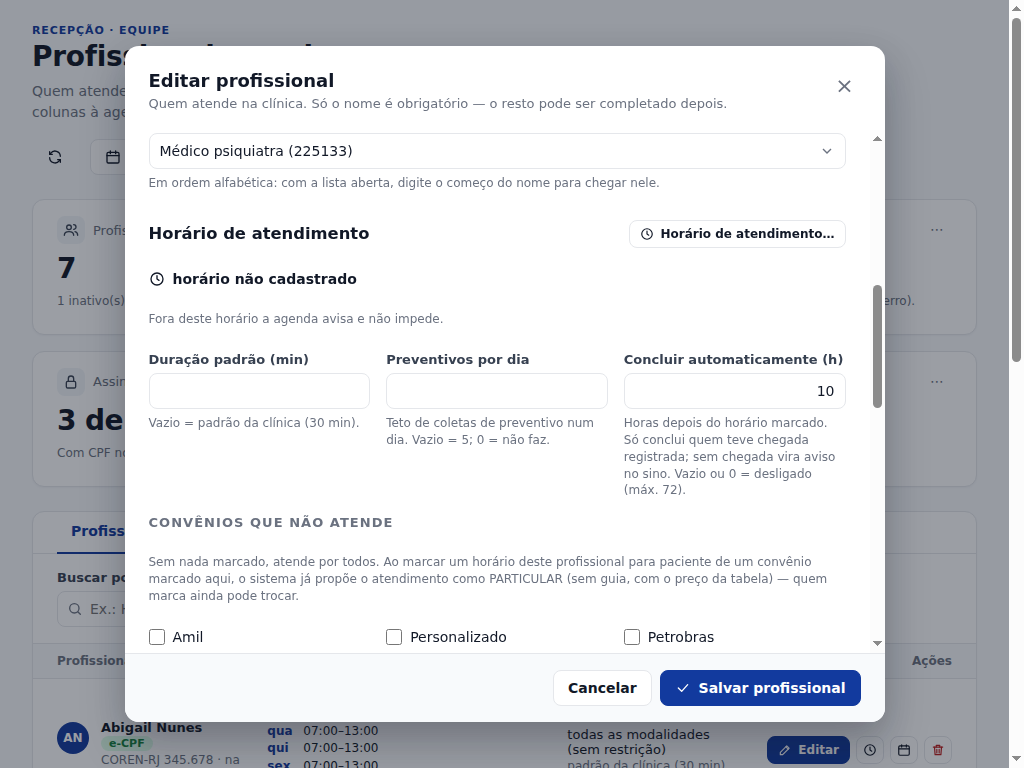
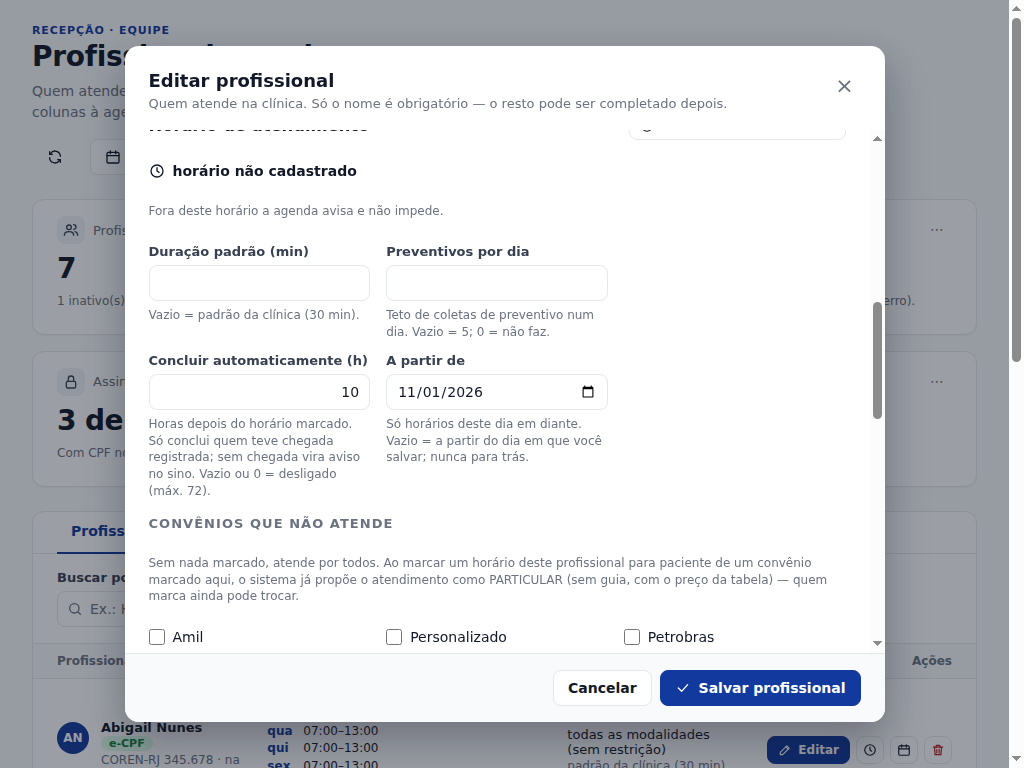
Conclusão automática por profissional: data "a partir de" e teto por volta
Pedido do dono: a regra só alcança horários a partir da data do cadastro
(01/11/2026 para a médica), retroativa a partir dela e nunca antes; sem
data, vale do dia da gravação. O aviso do sino segue a data. O relógio
conclui no máximo 50 horários por volta (1/min). A migration ainda não
publicada foi refeita com a terceira coluna.

diff --git a/tests/Clinica.Tests/ConclusaoPorProfissionalTests.cs b/tests/Clinica.Tests/ConclusaoPorProfissionalTests.cs
@@ -34,23 +34,35 @@ public sealed class ConclusaoPorProfissionalTests : IDisposable
 
     private ConclusaoAutomaticaService Servico => new(_db, _repo, new(_repo, new(_repo)), new(_repo));
 
+    private static readonly DateTime APartirDe = new(2026, 11, 1);
+
     private async Task<(Profissional Medica, Agendamento Horario)> CenarioAsync(
-        int? horas = 10, bool chegou = true, StatusAgendamento status = StatusAgendamento.Agendado)
+        int? horas = 10, bool chegou = true, StatusAgendamento status = StatusAgendamento.Agendado,
+        DateTime? horario = null, bool semData = false)
     {
-        var medica = new Profissional { Nome = "Dra. Fictícia da Silva", NomeCurto = "Dra. Fictícia", Ativo = true, ConcluirAutomaticamenteHoras = horas };
+        var medica = new Profissional { Nome = "Dra. Fictícia da Silva", NomeCurto = "Dra. Fictícia", Ativo = true,
+            ConcluirAutomaticamenteHoras = horas, ConcluirAutomaticamenteDesde = semData ? null : APartirDe };
         _db.Profissionais.Add(medica);
         await _db.SaveChangesAsync();
+        var quando = horario ?? Horario;
+        var h = await NovoHorarioAsync(medica.Id, quando, chegou, status);
+        _db.ChangeTracker.Clear();
+        return (medica, h);
+    }
+
+    private async Task<Agendamento> NovoHorarioAsync(int profissionalId, DateTime quando, bool chegou = true,
+        StatusAgendamento status = StatusAgendamento.Agendado)
+    {
         var horario = new Agendamento
         {
             Paciente = new Paciente { Nome = "Paciente Exemplo", Convenio = Convenio.UnimedPadrao },
-            ProfissionalId = medica.Id, DataHora = Horario, Status = status,
+            ProfissionalId = profissionalId, DataHora = quando, Status = status,
             ModalidadePrevista = ModalidadeAtendimento.AcupunturaComEletro,
-            ChegadaEm = chegou ? Horario.AddMinutes(-10) : null
+            ChegadaEm = chegou ? quando.AddMinutes(-10) : null
         };
         _db.Agendamentos.Add(horario);
         await _db.SaveChangesAsync();
-        _db.ChangeTracker.Clear();
-        return (medica, horario);
+        return horario;
     }
 
     private Task<Agendamento> RelerAsync(int id) => _db.Agendamentos.AsNoTracking().SingleAsync(a => a.Id == id);
@@ -141,6 +153,66 @@ public sealed class ConclusaoPorProfissionalTests : IDisposable
     }
 
     [Fact]
+    public async Task Antes_da_data_nao_conclui_nem_avisa_e_depois_dela_conclui_na_primeira_volta()
+    {
+        // A gerente grava 10 h a partir de 01/11 em 18/11: 30/10 fica intocado; 05/11 conclui na primeira volta.
+        var gravadaEm = new DateTime(2026, 11, 18, 10, 0, 0);
+        var (medica, antes) = await CenarioAsync(horario: new DateTime(2026, 10, 30, 9, 0, 0));
+        var semChegadaAntes = await NovoHorarioAsync(medica.Id, new DateTime(2026, 10, 31, 9, 0, 0), chegou: false);
+        var depois = await NovoHorarioAsync(medica.Id, new DateTime(2026, 11, 5, 9, 0, 0));
+        _db.ChangeTracker.Clear();
+
+        Assert.Equal([depois.Id], await Servico.CandidatosPorProfissionalAsync(gravadaEm));
+        Assert.False(await Servico.ConcluirPorProfissionalAsync(antes.Id, gravadaEm));
+        Assert.True(await Servico.ConcluirPorProfissionalAsync(depois.Id, gravadaEm));
+
+        Assert.Equal(StatusAgendamento.Agendado, (await RelerAsync(antes.Id)).Status);
+        Assert.Null((await RelerAsync(antes.Id)).ConcluidoAutomaticamenteEm);
+        Assert.Equal(StatusAgendamento.Realizado, (await RelerAsync(depois.Id)).Status);
+        Assert.Empty(await Servico.SemChegadaAsync(gravadaEm)); // 31/10 sem chegada: antes da data, sem aviso
+        Assert.Equal(StatusAgendamento.Agendado, (await RelerAsync(semChegadaAntes.Id)).Status);
+    }
+
+    [Fact]
+    public async Task Primeiro_de_novembro_as_9h_com_chegada_conclui_as_19h()
+    {
+        var (_, h) = await CenarioAsync(horario: new DateTime(2026, 11, 1, 9, 0, 0));
+        Assert.False(await Servico.ConcluirPorProfissionalAsync(h.Id, new DateTime(2026, 11, 1, 18, 59, 0)));
+        Assert.True(await Servico.ConcluirPorProfissionalAsync(h.Id, new DateTime(2026, 11, 1, 19, 0, 0)));
+    }
+
+    [Fact]
+    public async Task Sem_data_gravada_a_regra_nao_anda_para_tras()
+    {
+        // Horas preenchidas sem data (gravado por fora do serviço): nada, nem aviso.
+        var (_, h) = await CenarioAsync(semData: true);
+        Assert.Empty(await Servico.CandidatosPorProfissionalAsync(DezHorasDepois));
+        Assert.False(await Servico.ConcluirPorProfissionalAsync(h.Id, DezHorasDepois));
+        Assert.Empty(await Servico.SemChegadaAsync(DezHorasDepois));
+    }
+
+    [Fact]
+    public async Task Cadastro_sem_data_grava_o_dia_da_gravacao_e_nao_conclui_o_que_veio_antes()
+    {
+        var medica = new Profissional { Nome = "Dra. Fictícia da Silva", NomeCurto = "Dra. Fictícia", Ativo = true };
+        _db.Profissionais.Add(medica);
+        await _db.SaveChangesAsync();
+        var ontem = DateTime.Today.AddDays(-1).AddHours(9);
+        var h = await NovoHorarioAsync(medica.Id, ontem);
+        _db.ChangeTracker.Clear();
+
+        await new EquipeService(_repo).SalvarProfissionalAsync(
+            new Profissional { Id = medica.Id, Nome = medica.Nome, Ativo = true, ConcluirAutomaticamenteHoras = 10 });
+        var gravado = await _db.Profissionais.AsNoTracking().SingleAsync(p => p.Id == medica.Id);
+        Assert.Equal(DateTime.Today, gravado.ConcluirAutomaticamenteDesde);
+
+        _db.ChangeTracker.Clear();
+        Assert.Empty(await Servico.CandidatosPorProfissionalAsync(DateTime.Now.AddHours(1)));
+        Assert.False(await Servico.ConcluirPorProfissionalAsync(h.Id, DateTime.Now.AddHours(1)));
+        Assert.Equal(StatusAgendamento.Agendado, (await RelerAsync(h.Id)).Status);
+    }
+
+    [Fact]
     public void Sessao_concluida_pelo_sistema_nao_e_pendencia_de_evolucao_da_medica()
     {
         var dia = PoliticaRegistroPendente.DataInicio.AddDays(30).ToDateTime(new TimeOnly(9, 0));
@@ -161,8 +233,16 @@ public sealed class ConclusaoPorProfissionalTests : IDisposable
         await equipe.SalvarProfissionalAsync(new Profissional { Id = medica.Id, Nome = lida.Nome, Ativo = true });
         Assert.Equal(10, (await _db.Profissionais.AsNoTracking().SingleAsync(p => p.Id == medica.Id)).ConcluirAutomaticamenteHoras);
 
+        Assert.Equal(APartirDe, (await _db.Profissionais.AsNoTracking().SingleAsync(p => p.Id == medica.Id)).ConcluirAutomaticamenteDesde);
+
+        // A tela manda horas sem data: a data que já estava fica (não avança a cada salvar).
+        await equipe.SalvarProfissionalAsync(new Profissional { Id = medica.Id, Nome = lida.Nome, Ativo = true, ConcluirAutomaticamenteHoras = 12 });
+        Assert.Equal(APartirDe, (await _db.Profissionais.AsNoTracking().SingleAsync(p => p.Id == medica.Id)).ConcluirAutomaticamenteDesde);
+
         await equipe.SalvarProfissionalAsync(new Profissional { Id = medica.Id, Nome = lida.Nome, Ativo = true, ConcluirAutomaticamenteHoras = 0 });
-        Assert.Null((await _db.Profissionais.AsNoTracking().SingleAsync(p => p.Id == medica.Id)).ConcluirAutomaticamenteHoras);
+        var desligado = await _db.Profissionais.AsNoTracking().SingleAsync(p => p.Id == medica.Id);
+        Assert.Null(desligado.ConcluirAutomaticamenteHoras);
+        Assert.Null(desligado.ConcluirAutomaticamenteDesde);
 
         await Assert.ThrowsAsync<InvalidOperationException>(() => equipe.SalvarProfissionalAsync(
             new Profissional { Id = medica.Id, Nome = lida.Nome, Ativo = true, ConcluirAutomaticamenteHoras = Profissional.ConcluirAutomaticamenteHorasMaximo + 1 }));

diff --git a/src/Clinica.Infrastructure/ConclusaoAutomaticaService.cs b/src/Clinica.Infrastructure/ConclusaoAutomaticaService.cs
@@ -105,7 +105,8 @@ public sealed class ConclusaoAutomaticaService(ClinicaDbContext db, IClinicaRepo
         var linhas = await ConsultaAbertosDosProfissionaisComPrazo(agora, comChegada, depois).ToListAsync(ct);
         return linhas
             .Select(a => (Horario: a, Profissional: a.Profissional!, Horas: ConclusaoPorProfissional.Horas(a.Profissional)))
-            .Where(l => l.Horas is { } h && ConclusaoPorProfissional.Venceu(l.Horario.DataHora, h, agora))
+            .Where(l => l.Horas is { } h && ConclusaoPorProfissional.NoAlcance(l.Profissional, l.Horario.DataHora)
+                && ConclusaoPorProfissional.Venceu(l.Horario.DataHora, h, agora))
             .Select(l => (l.Horario, l.Profissional, l.Horas!.Value))
             .ToList();
     }
@@ -113,13 +114,24 @@ public sealed class ConclusaoAutomaticaService(ClinicaDbContext db, IClinicaRepo
     /// <summary>O recorte do banco (estado, chegada, profissional com a regra, janela de dias) — público para a rede de tradução.</summary>
     public IQueryable<Agendamento> ConsultaAbertosDosProfissionaisComPrazo(DateTime agora, bool comChegada, int depois)
     {
-        var desde = agora.AddDays(-ConclusaoPorProfissional.DiasDoAvisoSemChegada);
         var ultimoPossivel = agora.AddHours(-1);
         var abertos = db.Agendamentos.AsNoTracking().Include(a => a.Profissional)
             .Where(a => a.Id > depois && a.Status == StatusAgendamento.Agendado
-                && a.DataHora >= desde && a.DataHora <= ultimoPossivel
-                && a.Profissional != null && a.Profissional.ConcluirAutomaticamenteHoras > 0);
-        abertos = comChegada ? abertos.Where(a => a.ChegadaEm != null) : abertos.Where(a => a.ChegadaEm == null);
+                && a.DataHora <= ultimoPossivel
+                && a.Profissional != null && a.Profissional.ConcluirAutomaticamenteHoras > 0
+                // A DATA do cadastro barra tudo o que é anterior (pedido do dono: só a partir de 01/12/2026).
+                // Sem data, nada: a regra nunca anda para trás.
+                && a.Profissional.ConcluirAutomaticamenteDesde != null
+                && a.DataHora >= a.Profissional.ConcluirAutomaticamenteDesde);
+        // Com chegada (concluir): desde a DATA do cadastro, sem outro corte — gravar 01/11 em 18/11 conclui
+        // os horários de novembro que ficaram abertos (pedido do dono). Sem chegada (o aviso do sino): a data
+        // E os últimos dias, para o sino não virar o arquivo morto do mês inteiro.
+        if (comChegada) abertos = abertos.Where(a => a.ChegadaEm != null);
+        else
+        {
+            var avisoDesde = agora.AddDays(-ConclusaoPorProfissional.DiasDoAvisoSemChegada);
+            abertos = abertos.Where(a => a.ChegadaEm == null && a.DataHora >= avisoDesde);
+        }
         return abertos.OrderBy(a => a.Id).Take(500);
     }
 
@@ -145,6 +157,7 @@ public sealed class ConclusaoAutomaticaService(ClinicaDbContext db, IClinicaRepo
         var a = await db.Agendamentos.Include(x => x.Profissional).SingleOrDefaultAsync(x => x.Id == id, ct);
         if (a is not { Status: StatusAgendamento.Agendado, ChegadaEm: not null, Profissional: { } profissional }
             || ConclusaoPorProfissional.Horas(profissional) is not { } horas
+            || !ConclusaoPorProfissional.NoAlcance(profissional, a.DataHora)
             || !ConclusaoPorProfissional.Venceu(a.DataHora, horas, agora))
             return false;
 
@@ -351,17 +364,20 @@ public sealed class ConclusaoAutomaticaService(ClinicaDbContext db, IClinicaRepo
                 }
                 // 3) A regra do PROFISSIONAL (nov/2026): horário com chegada, N horas depois.
                 // Em try próprio, pela mesma razão da etapa 1: falhar aqui não para as outras.
+                // Teto por volta (ConclusaoPorProfissional.MaximoPorVolta): um lote retroativo (a data gravada no
+                // passado) anda em fatias de 1 minuto, sem prender o portal; o resto fica para a volta seguinte.
                 try
                 {
-                    int profDepois = 0;
-                    while (!ct.IsCancellationRequested)
+                    int profDepois = 0, feitas = 0;
+                    while (!ct.IsCancellationRequested && feitas < ConclusaoPorProfissional.MaximoPorVolta)
                     {
                         int[] ids;
                         using (var scope = scopes.CreateScope())
                             ids = await scope.ServiceProvider.GetRequiredService<ConclusaoAutomaticaService>().CandidatosPorProfissionalAsync(Agora, profDepois, ct);
                         if (ids.Length == 0) break;
-                        foreach (var id in ids)
+                        foreach (var id in ids.Take(ConclusaoPorProfissional.MaximoPorVolta - feitas))
                         {
+                            feitas++;
                             try
                             {
                                 using var scope = scopes.CreateScope();

diff --git a/src/Clinica.Application/Modelos/ConclusaoPorProfissional.cs b/src/Clinica.Application/Modelos/ConclusaoPorProfissional.cs
@@ -30,6 +30,13 @@ public static class ConclusaoPorProfissional
     public static int? Horas(Profissional? profissional)
         => profissional?.ConcluirAutomaticamenteHoras is { } h and > 0 and <= Profissional.ConcluirAutomaticamenteHorasMaximo ? h : null;
 
+    /// <summary>
+    /// O horário está no alcance da regra? Só a partir da data do cadastro (<see cref="Profissional.ConcluirAutomaticamenteDesde"/>);
+    /// sem data, nada — a regra nunca anda para trás.
+    /// </summary>
+    public static bool NoAlcance(Profissional profissional, DateTime horario)
+        => profissional.ConcluirAutomaticamenteDesde is { } desde && horario >= desde.Date;
+
     /// <summary>O prazo venceu? Consulta às 09:00 com 10 horas → às 19:00 (inclusive).</summary>
     public static bool Venceu(DateTime horario, int horas, DateTime agora) => horario.AddHours(horas) <= agora;
 
@@ -56,6 +63,12 @@ public static class ConclusaoPorProfissional
         => quantos == 1
             ? $"1 horário sem chegada na agenda de {profissional}: confirme falta ou presença."
             : $"{quantos} horários sem chegada na agenda de {profissional}: confirme falta ou presença.";
+
+    /// <summary>
+    /// Quantos horários o relógio conclui por volta (1 por minuto): cada um é uma transação curta; 50 por
+    /// minuto dão conta de um mês retroativo de uma agenda cheia em poucos minutos sem segurar o portal.
+    /// </summary>
+    public const int MaximoPorVolta = 50;
 
     /// <summary>Até quantos dias para trás o sino cobra: horário mais velho que isso já saiu do dia a dia da recepção.</summary>
     public const int DiasDoAvisoSemChegada = 30;

diff --git a/src/Clinica.Application/Servicos/EquipeService.cs b/src/Clinica.Application/Servicos/EquipeService.cs
@@ -131,7 +131,14 @@ public sealed class EquipeService
         // Concluir automaticamente (nov/2026). NULO = "o chamador não sabe" e fica o que estava (a tela
         // de Acessos regrava o profissional sem este campo — quem não edita, PRESERVA); 0 = desligado.
         if (dados.ConcluirAutomaticamenteHoras is { } concluirEm)
+        {
             destino.ConcluirAutomaticamenteHoras = concluirEm == 0 ? null : concluirEm;
+            // "A partir de" (pedido do dono): a data que a tela mandou; sem data, a que já estava; sem
+            // nenhuma, o DIA DA GRAVAÇÃO — a regra nunca anda para trás. Desligar apaga a data, para
+            // religar começar de novo do dia em que se religou.
+            destino.ConcluirAutomaticamenteDesde = destino.ConcluirAutomaticamenteHoras is null ? null
+                : (dados.ConcluirAutomaticamenteDesde ?? destino.ConcluirAutomaticamenteDesde ?? DateTime.Today).Date;
+        }
         // Os convênios que NÃO atende (nov/2026). NULO = "o chamador não sabe" e fica o que
         // estava (a tela de Acessos regrava o profissional só para o CPF — quem não edita,
         // PRESERVA); vazio = atende todos. Guardado limpo: sem repetido, sem espaço.

diff --git a/src/Clinica.Infrastructure/Migrations/20261118202544_ConclusaoAutomaticaPorProfissional.cs b/src/Clinica.Infrastructure/Migrations/20261118202544_ConclusaoAutomaticaPorProfissional.cs
@@ -11,6 +11,12 @@ namespace Clinica.Infrastructure.Migrations
         /// <inheritdoc />
         protected override void Up(MigrationBuilder migrationBuilder)
         {
+            migrationBuilder.AddColumn<DateTime>(
+                name: "ConcluirAutomaticamenteDesde",
+                table: "Profissionais",
+                type: "timestamp without time zone",
+                nullable: true);
+
             migrationBuilder.AddColumn<int>(
                 name: "ConcluirAutomaticamenteHoras",
                 table: "Profissionais",
@@ -27,6 +33,10 @@ namespace Clinica.Infrastructure.Migrations
         /// <inheritdoc />
         protected override void Down(MigrationBuilder migrationBuilder)
         {
+            migrationBuilder.DropColumn(
+                name: "ConcluirAutomaticamenteDesde",
+                table: "Profissionais");
+
             migrationBuilder.DropColumn(
                 name: "ConcluirAutomaticamenteHoras",
                 table: "Profissionais");

diff --git a/src/Clinica.Infrastructure/Migrations/20261118202544_ConclusaoAutomaticaPorProfissional.Designer.cs b/src/Clinica.Infrastructure/Migrations/20261118202544_ConclusaoAutomaticaPorProfissional.Designer.cs
@@ -12,7 +12,7 @@ using Npgsql.EntityFrameworkCore.PostgreSQL.Metadata;
 namespace Clinica.Infrastructure.Migrations
 {
     [DbContext(typeof(ClinicaDbContext))]
-    [Migration("20261118194409_ConclusaoAutomaticaPorProfissional")]
+    [Migration("20261118202544_ConclusaoAutomaticaPorProfissional")]
     partial class ConclusaoAutomaticaPorProfissional
     {
         /// <inheritdoc />
@@ -6331,6 +6331,9 @@ namespace Clinica.Infrastructure.Migrations
                     b.Property<string>("Cbos")
                         .HasMaxLength(6)
                         .HasColumnType("character varying(6)");
+
+                    b.Property<DateTime?>("ConcluirAutomaticamenteDesde")
+                        .HasColumnType("timestamp without time zone");
 
                     b.Property<int?>("ConcluirAutomaticamenteHoras")
                         .HasColumnType("integer");

diff --git a/src/Clinica.Domain/Entities/Equipe.cs b/src/Clinica.Domain/Entities/Equipe.cs
@@ -130,6 +130,14 @@ public class Profissional
     /// </summary>
     public int? ConcluirAutomaticamenteHoras { get; set; }
 
+    /// <summary>
+    /// A partir de quando a conclusão automática vale (meia-noite do dia; pedido do dono, nov/2026: "só
+    /// as consultas a partir de 01/12"). O relógio só olha horários com <c>DataHora</c> igual ou depois
+    /// dela — NUNCA para trás. Sem data na tela, o serviço grava o dia em que a regra foi ligada; nulo
+    /// com horas preenchidas (gravado por fora do serviço) não conclui nada.
+    /// </summary>
+    public DateTime? ConcluirAutomaticamenteDesde { get; set; }
+
     /// <summary>Trava compartilhada: impede sobreposição, bloqueios e marcação fora da jornada.</summary>
     public bool AgendaProtegida { get; set; }
 

diff --git a/tools/PreviaBlazor/Sementes/Base.cs b/tools/PreviaBlazor/Sementes/Base.cs
@@ -34,7 +34,7 @@ public sealed class SementeBase : ISemente
             Nome = "Dr. Marcos Vieira", NomeCurto = "Dr. Marcos", RegistroConselho = "CRM-RJ 61.9876",
             ConselhoProfissional = "06", NumeroConselho = "619876", UfConselho = "33", Cbos = "225133",
             // Conclusão automática por profissional (nov/2026): quem não usa o sistema.
-            ConcluirAutomaticamenteHoras = 10
+            ConcluirAutomaticamenteHoras = 10, ConcluirAutomaticamenteDesde = new DateTime(2026, 11, 1)
         });
         db.Add(new Profissional
         {

diff --git a/src/Clinica.Infrastructure/Migrations/ClinicaDbContextModelSnapshot.cs b/src/Clinica.Infrastructure/Migrations/ClinicaDbContextModelSnapshot.cs
@@ -6329,6 +6329,9 @@ namespace Clinica.Infrastructure.Migrations
                         .HasMaxLength(6)
                         .HasColumnType("character varying(6)");
 
+                    b.Property<DateTime?>("ConcluirAutomaticamenteDesde")
+                        .HasColumnType("timestamp without time zone");
+
                     b.Property<int?>("ConcluirAutomaticamenteHoras")
                         .HasColumnType("integer");
 

diff --git a/src/Clinica.Infrastructure/ClinicaDbContext.cs b/src/Clinica.Infrastructure/ClinicaDbContext.cs
@@ -645,6 +645,7 @@ public class ClinicaDbContext : DbContext
         // é quem entra quando um deles vaga.
         b.Entity<Profissional>(e =>
         {
+            e.Property(p => p.ConcluirAutomaticamenteDesde).HasColumnType("timestamp without time zone");
             e.HasKey(p => p.Id);
             e.Property(p => p.Nome).IsRequired().HasMaxLength(120);
             e.Property(p => p.NomeCurto).HasMaxLength(40);

diff --git a/docs/conclusao-automatica-por-profissional.md b/docs/conclusao-automatica-por-profissional.md
@@ -14,6 +14,14 @@ esquecimento): não se cobra consulta que não aconteceu.
   Profissionais e salas → Editar) → **Concluir automaticamente (h)**: de 1 a 72; vazio ou 0 =
   desligado. Quem grava é quem edita o profissional (mesma tela, mesma permissão). A médica fica com
   10 quando a gerente gravar; nenhum valor vem pronto.
+- **A partir de (data)** — pedido do dono: a gerente grava 10 h e **01/11/2026**. O relógio só olha
+  horários com `DataHora` igual ou depois dessa data; **nada antes dela é tocado**, nem pelo aviso do
+  sino. Data no passado é **retroativa** de propósito: gravar 01/11 em 18/11 conclui, na primeira volta,
+  os horários de novembro com chegada que ficaram abertos. Sem data na tela, o serviço grava o **dia da
+  gravação** (nunca para trás); salvar de novo não avança a data; desligar (0) apaga a data. Horas sem
+  data (gravadas por fora do serviço) não concluem nada.
+- **Teto por volta:** 50 conclusões por volta do relógio (uma volta por minuto), cada uma numa transação
+  curta. Um mês retroativo de agenda cheia anda em poucos minutos sem prender o portal.
 - **Conclui pelo mesmo serviço do "Concluir".** `AgendaService.ConcluirAtendimentoClinicoAsync`, o
   núcleo do botão: cria o atendimento e os códigos de faturamento (as guias pendentes de baixa),
   com particular e pacote como no clique, e grava a trilha `PresencaConfirmada`. A trava de consulta
@@ -34,7 +42,7 @@ esquecimento): não se cobra consulta que não aconteceu.
 - **Sem chegada vira aviso.** Passado o prazo, o horário sem chegada aparece no **sino** da Recepção e
   do Gerente (quem edita a agenda), seção "Horários sem chegada": *"3 horários sem chegada na agenda
   de Dra. Ana: confirme falta ou presença."* O clique abre a agenda. Registrar a chegada ali faz a
-  próxima volta do relógio concluir; registrar a falta tira o aviso. O sino cobra os últimos 30 dias.
+  próxima volta do relógio concluir; registrar a falta tira o aviso. O sino cobra os últimos 30 dias, e nunca antes da data "a partir de".
 - **Cancelado, falta, substituído ou já concluído:** nada acontece.
 - Remarcar ou estornar limpa o carimbo, como todo carimbo da fila.
 
@@ -67,8 +75,9 @@ prazo e roda **na API do portal na VPS** (`Clinica.Assinaturas.Api`, serviço 24
 
 ## O que precisa ser publicado
 
-- **Migration aditiva** `20261118194409_ConclusaoAutomaticaPorProfissional`: duas colunas anuláveis
-  (`Profissionais.ConcluirAutomaticamenteHoras`, `Agendamentos.ConcluidoAutomaticamenteEm`). Os apps a
+- **Migration aditiva** `20261118202544_ConclusaoAutomaticaPorProfissional`: três colunas anuláveis
+  (`Profissionais.ConcluirAutomaticamenteHoras`, `Profissionais.ConcluirAutomaticamenteDesde`,
+  `Agendamentos.ConcluidoAutomaticamenteEm`). Os apps a
   aplicam na abertura.
 - **API do portal na VPS** (`Clinica.Assinaturas.Api`) atualizada e ativa: é ela que conclui com todos
   os computadores desligados. O papel do banco do portal precisa ler a coluna nova de `Profissionais`
@@ -81,7 +90,8 @@ prazo e roda **na API do portal na VPS** (`Clinica.Assinaturas.Api`, serviço 24
 ## Evidências
 
 Testes: `tests/Clinica.Tests/ConclusaoPorProfissionalTests.cs` (com chegada conclui às 19:00 e gera
-os códigos; sem chegada não conclui e avisa; cancelado e falta nada; duas vezes conclui uma; sem a
+os códigos; 30/10 com a data 01/11 não conclui nem avisa e 05/11 conclui na primeira volta; 01/11 09:00
+conclui às 19:00; sem data nada para trás; sem chegada não conclui e avisa; cancelado e falta nada; duas vezes conclui uma; sem a
 configuração nada; cadastro 0/nulo/fora da faixa; frases e operador) e a tradução para o Postgres em
 `TraducaoNoNpgsqlTests`. Fotos do cadastro em `docs/evidencias/conclusao-automatica-por-profissional/`.
 
